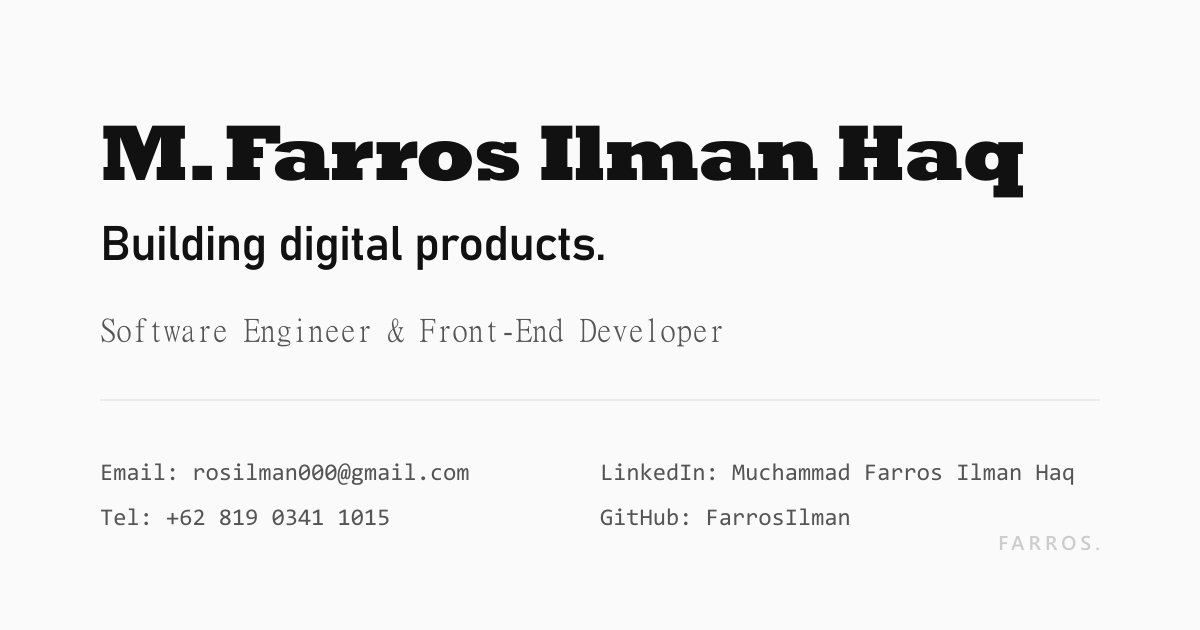
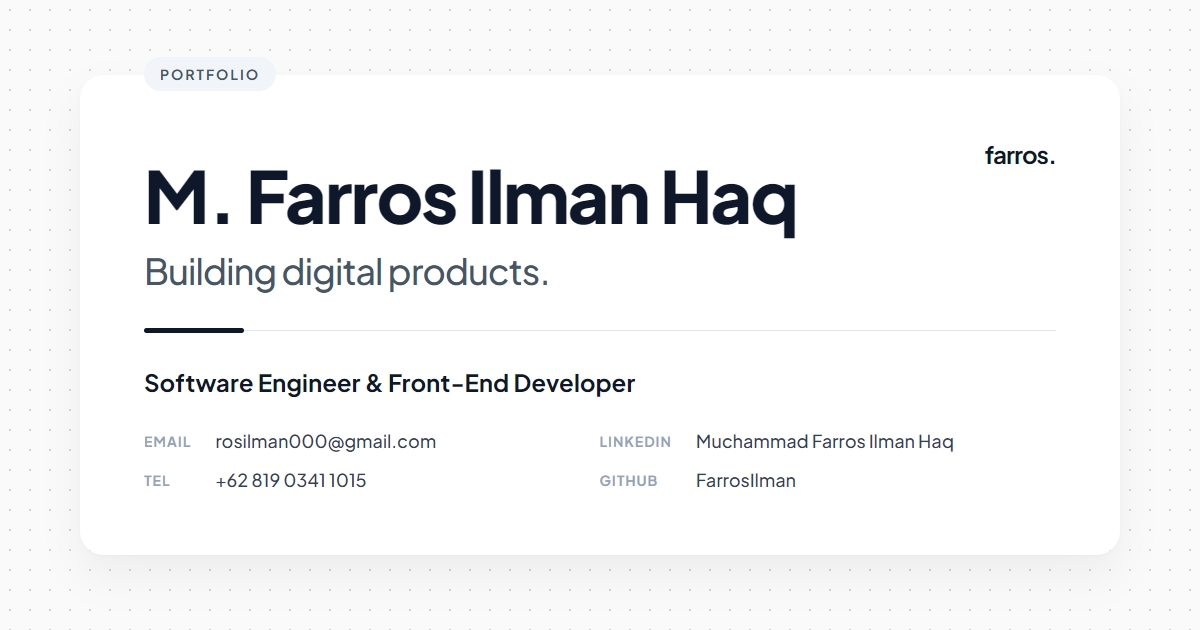
feat: overhaul open graph image generation with new HTML-based rendering and updated SVG design

diff --git a/generate_og.js b/generate_og.js
@@ -2,34 +2,85 @@ import fs from 'fs';
 import sharp from 'sharp';
 
 const svg = `
-<svg width="1200" height="630" xmlns="http://www.w3.org/2000/svg">
-  <!-- Background -->
-  <rect width="1200" height="630" fill="#fafafa" />
+<svg width="1200" height="630" xmlns="http://www.w3.org/2000/svg" xmlns:xlink="http://www.w3.org/1999/xlink">
+  <defs>
+    <!-- Background Mesh Gradient Orbs -->
+    <radialGradient id="orb1" cx="0%" cy="0%" r="70%">
+      <stop offset="0%" stop-color="#e2e8f0" stop-opacity="0.8" />
+      <stop offset="100%" stop-color="#f8fafc" stop-opacity="0" />
+    </radialGradient>
+    <radialGradient id="orb2" cx="100%" cy="100%" r="70%">
+      <stop offset="0%" stop-color="#cbd5e1" stop-opacity="0.6" />
+      <stop offset="100%" stop-color="#f8fafc" stop-opacity="0" />
+    </radialGradient>
+    <radialGradient id="orb3" cx="100%" cy="0%" r="60%">
+      <stop offset="0%" stop-color="#e2e8f0" stop-opacity="0.7" />
+      <stop offset="100%" stop-color="#f8fafc" stop-opacity="0" />
+    </radialGradient>
+
+    <!-- Grid Pattern -->
+    <pattern id="grid" width="40" height="40" patternUnits="userSpaceOnUse">
+      <path d="M 40 0 L 0 0 0 40" fill="none" stroke="#cbd5e1" stroke-width="0.5" stroke-opacity="0.3"/>
+    </pattern>
+
+    <!-- Elegant Card Shadow -->
+    <filter id="card-shadow" x="-10%" y="-10%" width="120%" height="120%">
+      <feDropShadow dx="0" dy="25" stdDeviation="35" flood-color="#000000" flood-opacity="0.08"/>
+      <feDropShadow dx="0" dy="4" stdDeviation="10" flood-color="#000000" flood-opacity="0.04"/>
+    </filter>
+
+    <!-- Glowing Accent -->
+    <linearGradient id="glow-line" x1="0%" y1="0%" x2="100%" y2="0%">
+      <stop offset="0%" stop-color="#0f172a" />
+      <stop offset="50%" stop-color="#334155" />
+      <stop offset="100%" stop-color="#0f172a" stop-opacity="0.1" />
+    </linearGradient>
+  </defs>
+
+  <!-- Base Background -->
+  <rect width="1200" height="630" fill="#f8fafc" />
+  <rect width="1200" height="630" fill="url(#orb1)" />
+  <rect width="1200" height="630" fill="url(#orb2)" />
+  <rect width="1200" height="630" fill="url(#orb3)" />
+  <rect width="1200" height="630" fill="url(#grid)" />
+
+  <!-- Main Card -->
+  <rect x="80" y="80" width="1040" height="470" rx="36" fill="#ffffff" filter="url(#card-shadow)" />
   
-  <!-- Content Container -->
-  <g transform="translate(100, 100)">
+  <!-- Content Group -->
+  <g transform="translate(150, 150)">
     
-    <!-- Title Area -->
-    <text x="0" y="80" font-family="system-ui, -apple-system, sans-serif" font-size="80" font-weight="800" fill="#111111" letter-spacing="-2">M. Farros Ilman Haq</text>
+    <!-- Header: Logo / Tag -->
+    <rect x="0" y="-10" width="120" height="36" rx="18" fill="#f1f5f9" />
+    <text x="60" y="14" font-family="system-ui, sans-serif" font-size="14" font-weight="700" fill="#475569" text-anchor="middle" letter-spacing="2">PORTFOLIO</text>
+    <text x="890" y="16" font-family="system-ui, sans-serif" font-size="24" font-weight="600" fill="#0f172a" text-anchor="end" letter-spacing="-1">farros.</text>
+
+    <!-- Main Typography -->
+    <text x="0" y="110" font-family="system-ui, -apple-system, sans-serif" font-size="76" font-weight="800" fill="#0f172a" letter-spacing="-2">M. Farros Ilman Haq</text>
+    <text x="0" y="180" font-family="system-ui, -apple-system, sans-serif" font-size="40" font-weight="500" fill="#334155" letter-spacing="-1">Building digital products.</text>
     
-    <text x="0" y="160" font-family="system-ui, -apple-system, sans-serif" font-size="48" font-weight="500" fill="#111111" letter-spacing="-1">Building digital products.</text>
+    <!-- Gradient Line Accent -->
+    <rect x="0" y="240" width="100" height="6" rx="3" fill="url(#glow-line)" />
+    <rect x="0" y="243" width="900" height="1" fill="#e2e8f0" />
     
-    <text x="0" y="240" font-family="system-ui, -apple-system, sans-serif" font-size="32" font-weight="400" fill="#555555">Software Engineer &amp; Front-End Developer</text>
-    
-    <!-- Accent Line -->
-    <line x1="0" y1="300" x2="1000" y2="300" stroke="#eaeaea" stroke-width="2" />
-    
-    <!-- Contact Info (Bottom) -->
-    <g transform="translate(0, 380)" font-family="ui-monospace, SFMono-Regular, Menlo, Monaco, Consolas, monospace" font-size="24" fill="#555555">
-      <text x="0" y="0">Email: rosilman000@gmail.com</text>
-      <text x="0" y="45">Tel: +62 819 0341 1015</text>
+    <!-- Contact Info Grid (Bottom Left) -->
+    <g transform="translate(0, 310)" font-family="system-ui, sans-serif" font-size="20" fill="#0f172a">
+      <text x="0" y="0" font-weight="600">Software Engineer &amp; Front-End Developer</text>
       
-      <text x="500" y="0">LinkedIn: Muchammad Farros Ilman Haq</text>
-      <text x="500" y="45">GitHub: FarrosIlman</text>
+      <g transform="translate(0, 50)" font-family="ui-monospace, SFMono-Regular, Menlo, Monaco, Consolas, monospace" font-size="18" fill="#475569">
+        <text x="0" y="0" font-weight="600" fill="#94a3b8">EMAIL</text>
+        <text x="90" y="0">rosilman000@gmail.com</text>
+        
+        <text x="440" y="0" font-weight="600" fill="#94a3b8">LINKEDIN</text>
+        <text x="550" y="0">Muchammad Farros Ilman Haq</text>
+        
+        <text x="0" y="45" font-weight="600" fill="#94a3b8">TEL</text>
+        <text x="90" y="45">+62 819 0341 1015</text>
+        
+        <text x="440" y="45" font-weight="600" fill="#94a3b8">GITHUB</text>
+        <text x="550" y="45">FarrosIlman</text>
+      </g>
     </g>
-    
-    <!-- Subtle branding at bottom right -->
-    <text x="1000" y="450" font-family="system-ui, -apple-system, sans-serif" font-size="20" font-weight="600" fill="#cccccc" text-anchor="end" letter-spacing="4">FARROS.</text>
   </g>
 </svg>
 `;

diff --git a/generate_og_html.js b/generate_og_html.js
@@ -1,0 +1,169 @@
+import fs from 'fs';
+import puppeteer from 'puppeteer';
+
+const html = `
+<!DOCTYPE html>
+<html lang="en">
+<head>
+  <meta charset="UTF-8">
+  <meta name="viewport" content="width=device-width, initial-scale=1.0">
+  <title>OG Image</title>
+  <link rel="preconnect" href="https://fonts.googleapis.com">
+  <link rel="preconnect" href="https://fonts.gstatic.com" crossorigin>
+  <link href="https://fonts.googleapis.com/css2?family=Plus+Jakarta+Sans:wght@400;500;600;700;800&display=swap" rel="stylesheet">
+  <style>
+    * {
+      box-sizing: border-box;
+      margin: 0;
+      padding: 0;
+    }
+    body {
+      width: 1200px;
+      height: 630px;
+      font-family: 'Plus Jakarta Sans', sans-serif;
+      background-color: #FAFAFA;
+      background-image: radial-gradient(#d1d5db 1px, transparent 1px);
+      background-size: 20px 20px;
+      display: flex;
+      align-items: center;
+      justify-content: center;
+      overflow: hidden;
+    }
+    .card {
+      width: 1040px;
+      height: 480px;
+      background: white;
+      border-radius: 24px;
+      padding: 64px;
+      box-shadow: 0 20px 40px rgba(0,0,0,0.05), 0 1px 3px rgba(0,0,0,0.02);
+      display: flex;
+      flex-direction: column;
+      justify-content: space-between;
+      position: relative;
+    }
+    .badge {
+      position: absolute;
+      top: -18px;
+      left: 64px;
+      background: #f1f5f9;
+      color: #475569;
+      padding: 8px 16px;
+      border-radius: 99px;
+      font-weight: 700;
+      font-size: 14px;
+      letter-spacing: 2px;
+    }
+    .logo {
+      position: absolute;
+      top: 64px;
+      right: 64px;
+      font-weight: 700;
+      font-size: 24px;
+      color: #0f172a;
+      letter-spacing: -1px;
+    }
+    .header h1 {
+      font-size: 72px;
+      font-weight: 800;
+      color: #0f172a;
+      letter-spacing: -2px;
+      margin-bottom: 8px;
+      margin-top: 10px;
+    }
+    .header p.tagline {
+      font-size: 36px;
+      font-weight: 500;
+      color: #475569;
+      letter-spacing: -1px;
+    }
+    .divider {
+      width: 100%;
+      height: 1px;
+      background: #e2e8f0;
+      margin: 32px 0;
+      position: relative;
+    }
+    .divider::before {
+      content: '';
+      position: absolute;
+      top: -2px;
+      left: 0;
+      width: 100px;
+      height: 5px;
+      background: #0f172a;
+      border-radius: 3px;
+    }
+    .content-grid {
+      display: grid;
+      grid-template-columns: 1fr;
+      gap: 16px;
+    }
+    .role {
+      font-size: 24px;
+      font-weight: 700;
+      color: #0f172a;
+      margin-bottom: 16px;
+    }
+    .contact-info {
+      display: grid;
+      grid-template-columns: auto 1fr auto 1fr;
+      gap: 16px 24px;
+      font-size: 18px;
+      align-items: center;
+    }
+    .label {
+      font-weight: 700;
+      color: #94a3b8;
+      font-size: 14px;
+      letter-spacing: 1px;
+    }
+    .value {
+      font-weight: 500;
+      color: #334155;
+    }
+  </style>
+</head>
+<body>
+  <div class="card">
+    <div class="badge">PORTFOLIO</div>
+    <div class="logo">farros.</div>
+    
+    <div class="header">
+      <h1>M. Farros Ilman Haq</h1>
+      <p class="tagline">Building digital products.</p>
+    </div>
+    
+    <div class="divider"></div>
+    
+    <div class="content-grid">
+      <div class="role">Software Engineer & Front-End Developer</div>
+      <div class="contact-info">
+        <div class="label">EMAIL</div>
+        <div class="value">rosilman000@gmail.com</div>
+        <div class="label">LINKEDIN</div>
+        <div class="value">Muchammad Farros Ilman Haq</div>
+        
+        <div class="label">TEL</div>
+        <div class="value">+62 819 0341 1015</div>
+        <div class="label">GITHUB</div>
+        <div class="value">FarrosIlman</div>
+      </div>
+    </div>
+  </div>
+</body>
+</html>
+`;
+
+(async () => {
+  console.log('Launching puppeteer...');
+  const browser = await puppeteer.launch({ headless: 'new' });
+  const page = await browser.newPage();
+  
+  await page.setViewport({ width: 1200, height: 630 });
+  await page.setContent(html, { waitUntil: 'networkidle0' });
+  
+  await page.screenshot({ path: 'public/og-image.jpg', type: 'jpeg', quality: 100 });
+  
+  await browser.close();
+  console.log('Successfully generated pixel-perfect og-image.jpg!');
+})();
